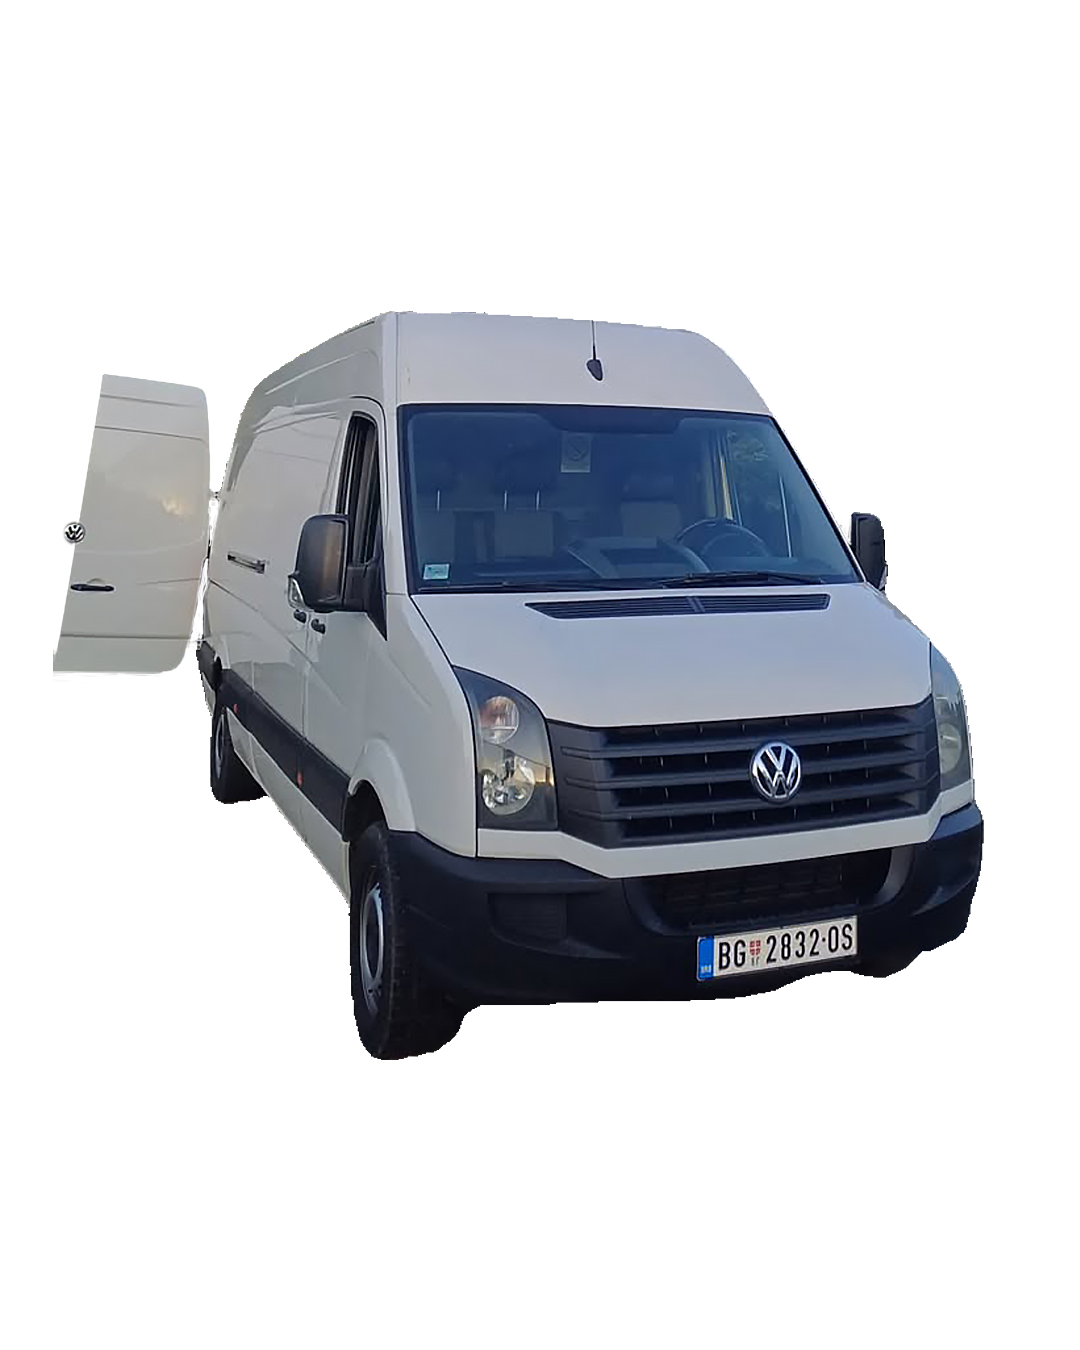
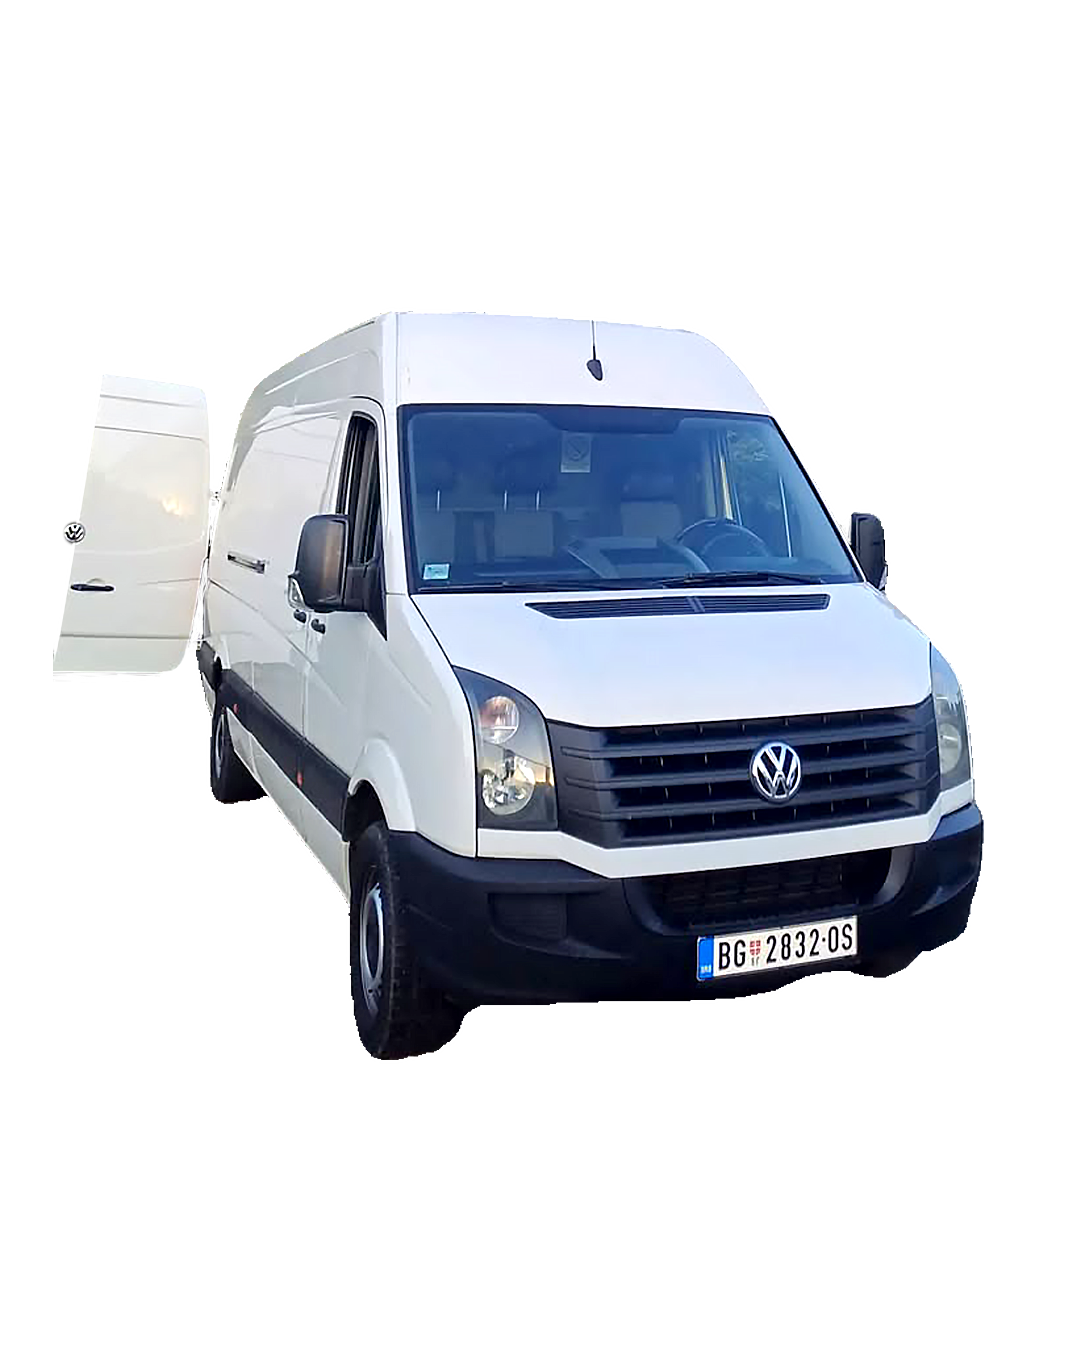
changes

Changed region(s): [[0.0306, 0.2178, 0.9167, 0.7467]]

diff --git a/src/components/GallerySection.jsx b/src/components/GallerySection.jsx
@@ -3,7 +3,7 @@ import Image from "next/image";
 import AnimatedTitleLine from "./ui/AnimatedTitleLine";
 import { SiHomeassistantcommunitystore } from "react-icons/si";
 import { LiaIndustrySolid } from "react-icons/lia";
-import { FaCameraRetro, FaPhoneAlt } from "react-icons/fa";
+import { FaCameraRetro, FaIndustry, FaPhoneAlt, FaTruck } from "react-icons/fa";
 import CustomButton from "./ui/Buttons/CustomButton";
 
 
@@ -28,7 +28,7 @@ export default function GallerySection() {
 </div>
 
 <div className="flex items-start space-x-4">
-  <LiaIndustrySolid className="w-14 h-20 flex-shrink-0 text-white" />
+  <FaTruck className="w-14 h-20 flex-shrink-0 text-white" />
   <p className="text-base leading-relaxed max-w-sm">
     Naša usluga komercijalne selidbe kao ili transporta je efikasna i brza, kako bi vaša firma što pre nastavila sa radom. Sprovodimo komercijalne selidbe po povoljnim cenama. 
   </p>

diff --git a/src/components/MovingTips.jsx b/src/components/MovingTips.jsx
@@ -70,14 +70,15 @@ const MovingTips = () => {
       whileHover={{ scale: 1.05 }}
       className="flex flex-col items-center w-full sm:w-1/4"
     >
-      <div className="w-full h-48 relative">
-        <Image
-          src="/kombi.png"
-          alt="Pakovanje"
-          fill
-          objectFit="contain"
-        />
-      </div>
+     <div className="w-full h-48 relative">
+  <Image
+    src="/kombi.png"
+    alt="Pakovanje"
+    fill
+    objectFit="contain"
+    className="transform scale-150"  // Povećava sliku za 10%
+  />
+</div>
       <h3 className="text-xl font-semibold mt-4 mb-2 text-center">
         Unajmi odgovarajući prevoz
       </h3>
